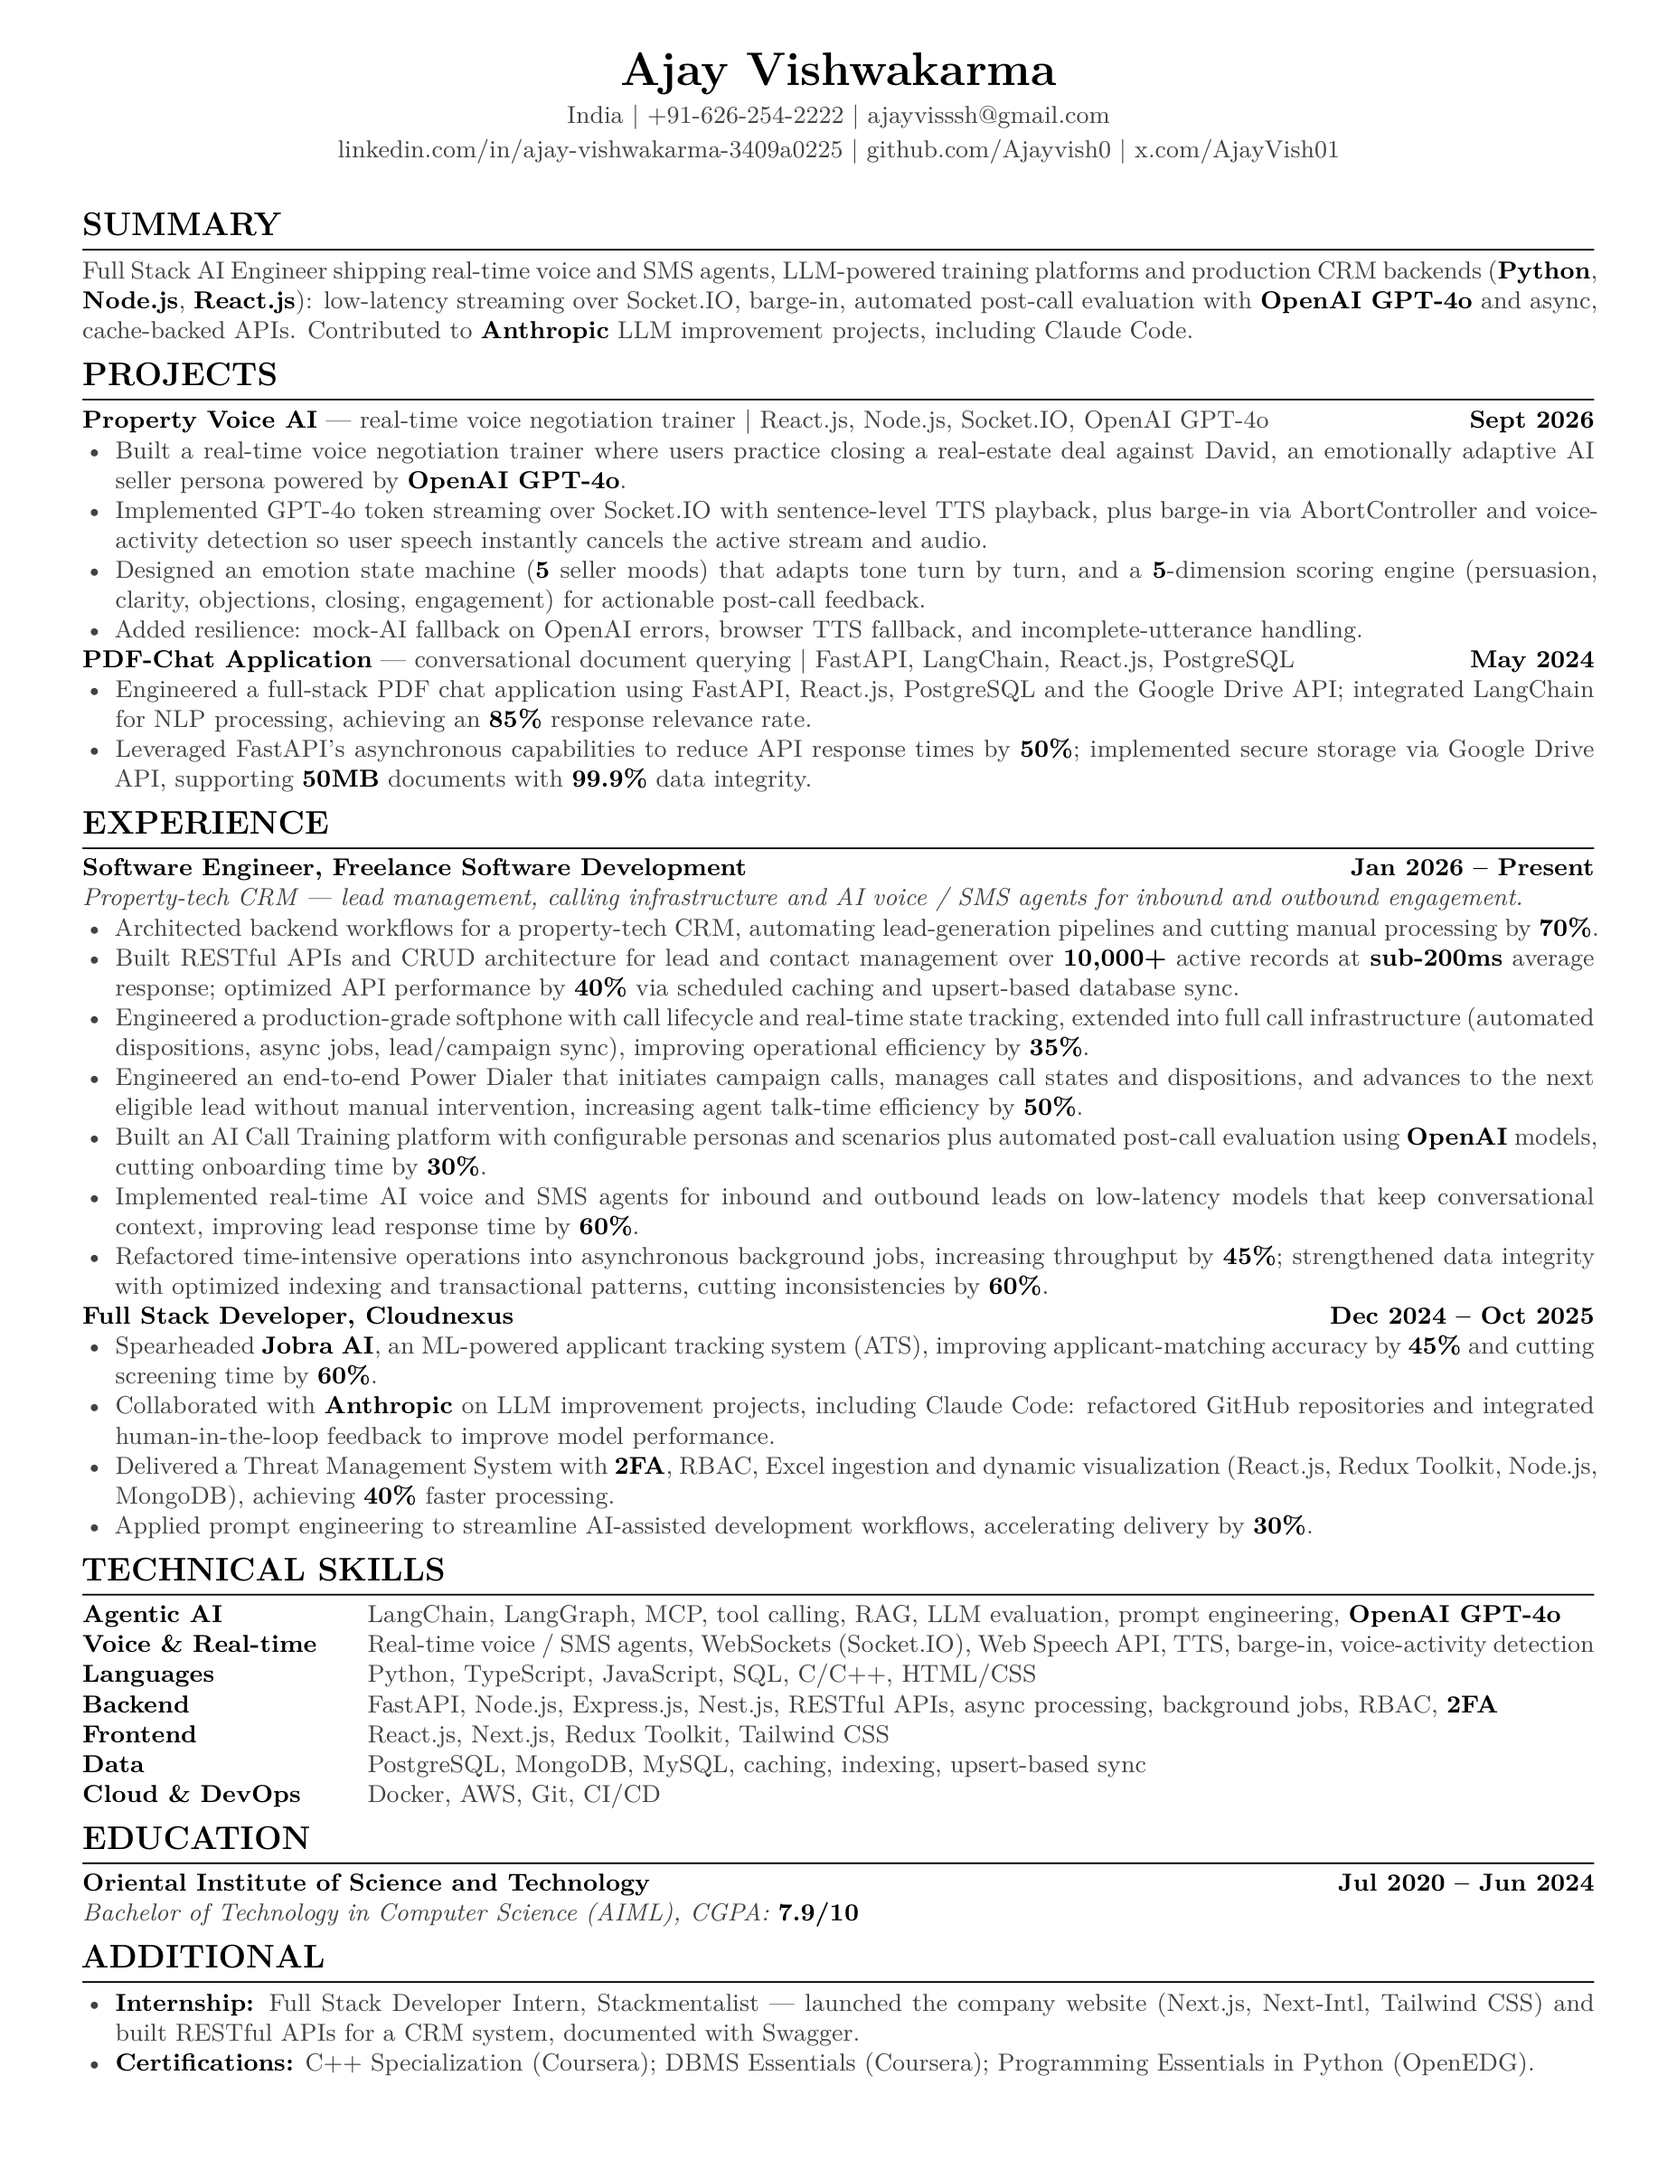
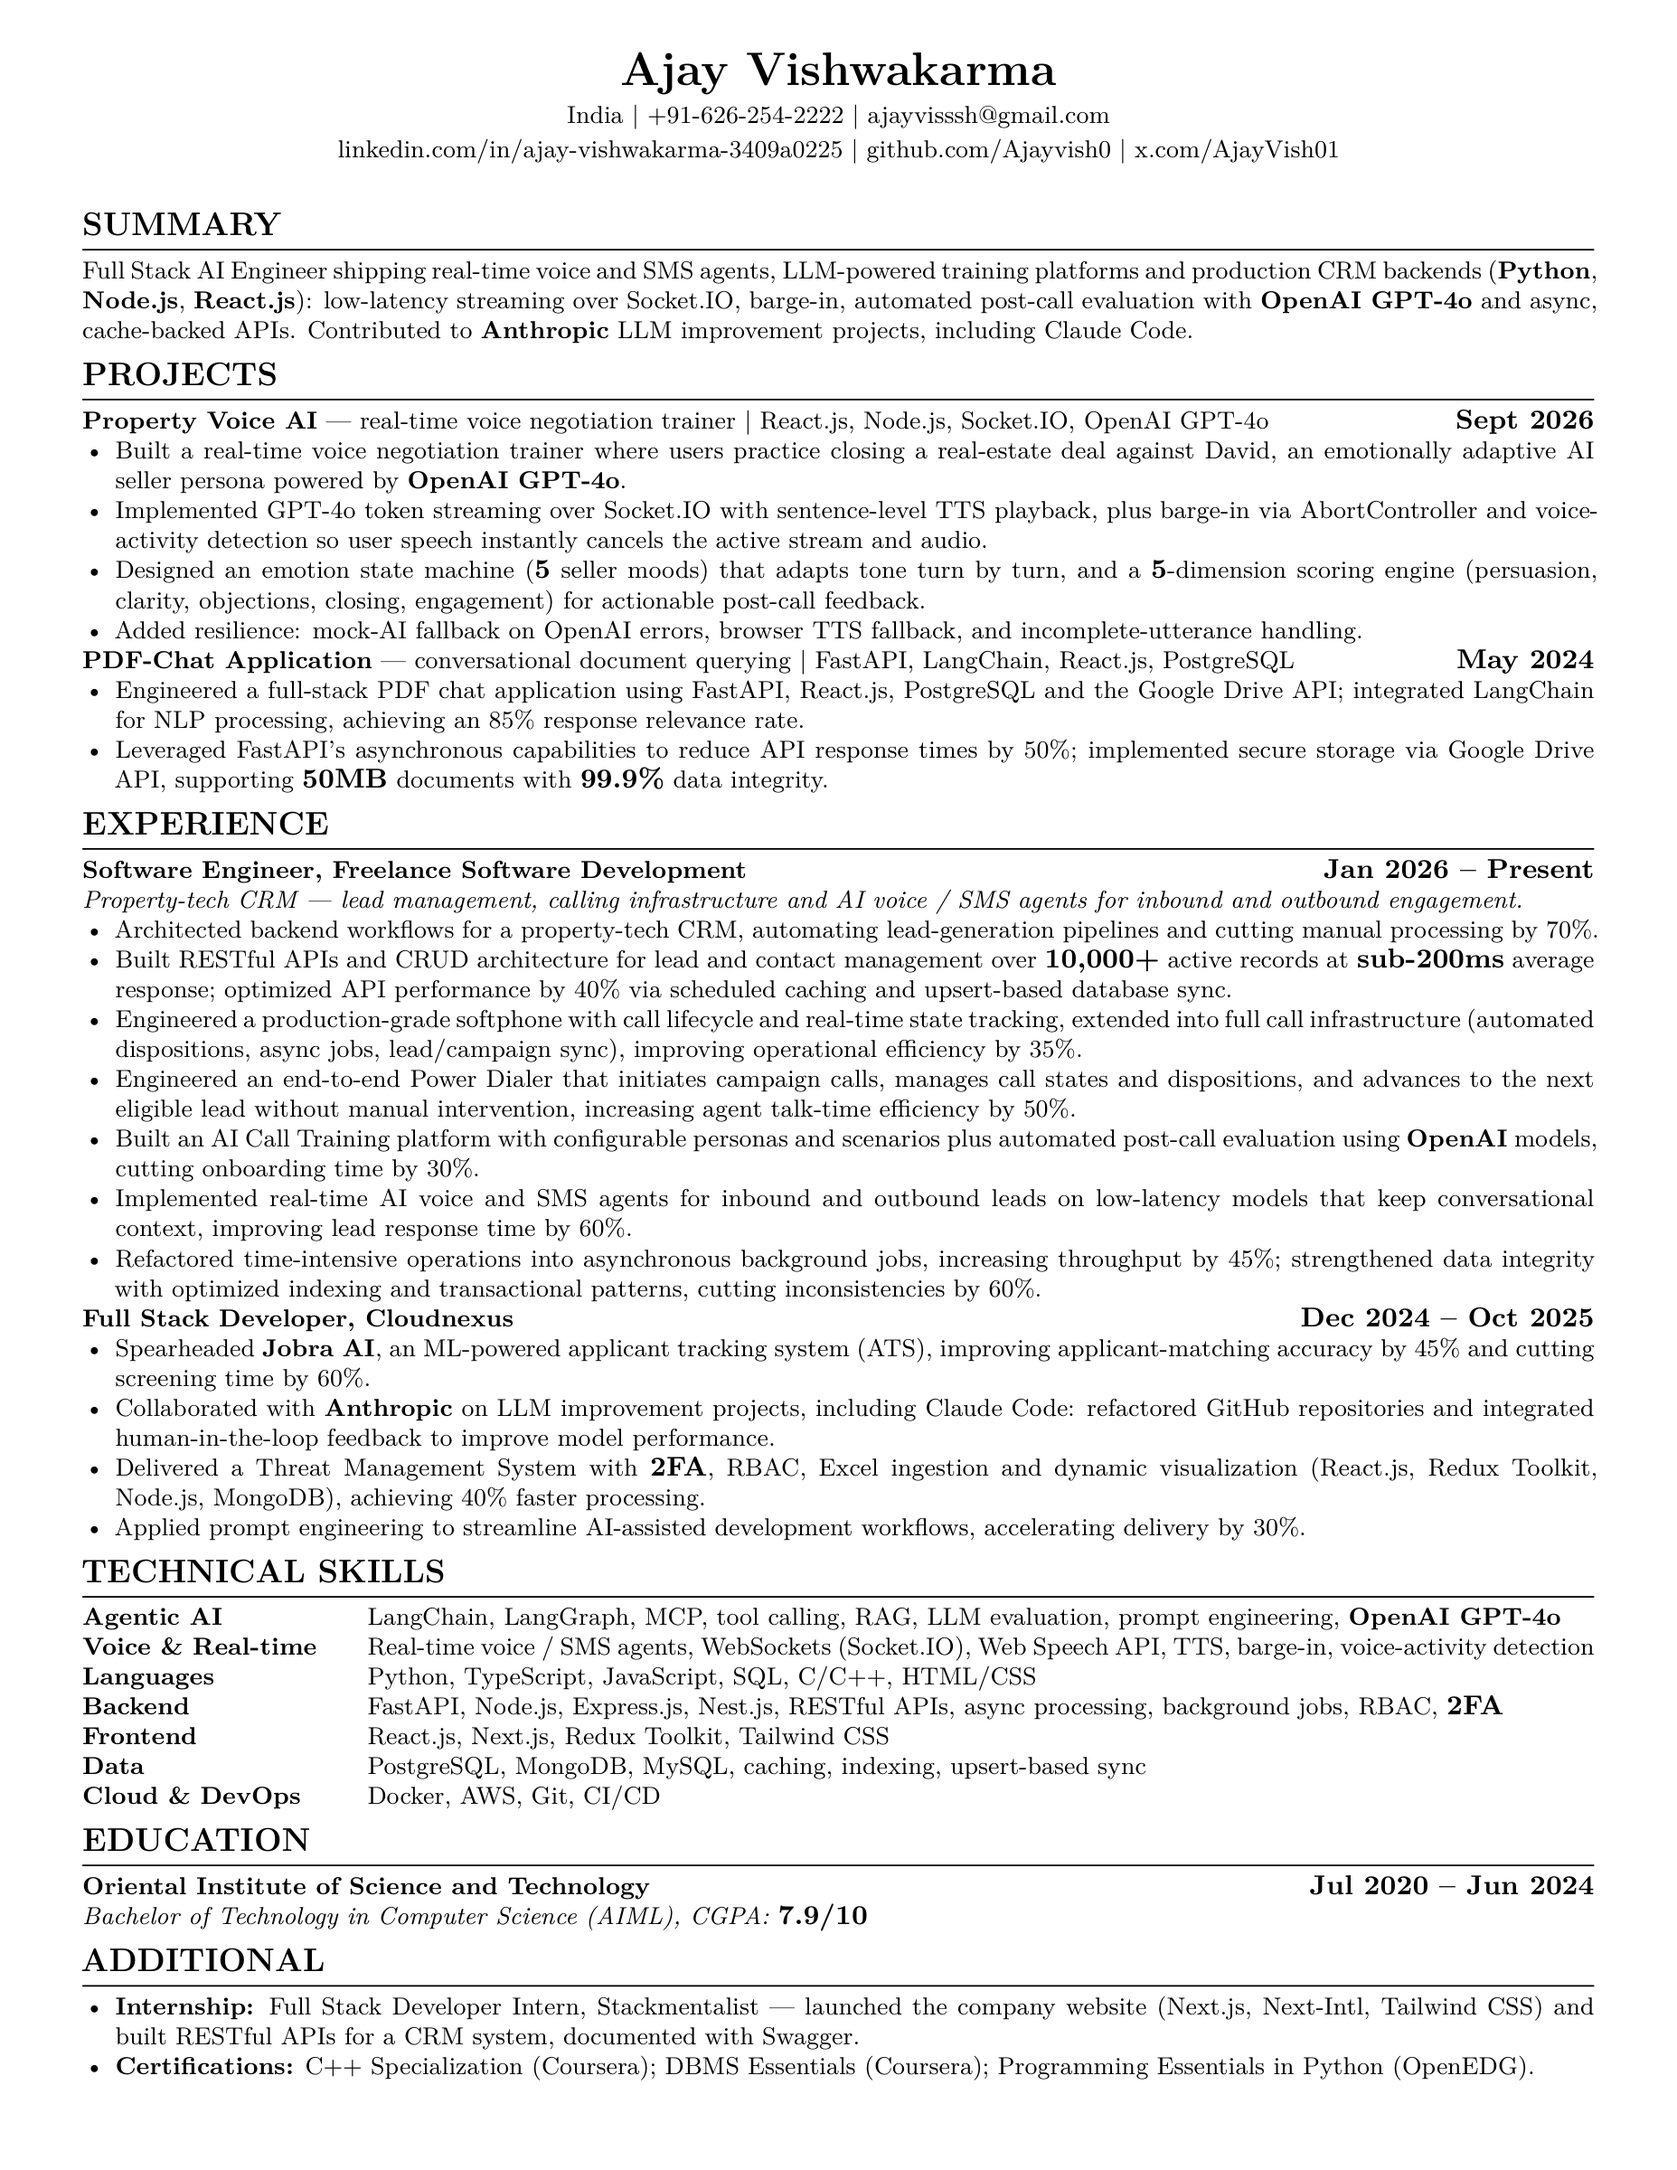
Update the resume preview image.
The resume PDF stays out of this commit.

diff --git a/src/app/(site)/resume/page.tsx b/src/app/(site)/resume/page.tsx
@@ -4,10 +4,10 @@ import { Download, ExternalLink } from "lucide-react";
 import { JsonLd } from "@/components/json-ld";
 import { absoluteUrl, personId } from "@/lib/site";
 
-// To update: replace public/resume/resume.pdf, then run `npm run resume:image`
-// to re-render the preview (public/resume/resume.png) from its first page.
+// To update: replace public/resume/Ajay_AiFullstack.pdf, then re-render
+// public/resume/preview.png from its first page.
 const RESUME_PDF = "/resume/Ajay_AiFullstack.pdf";
-const RESUME_PREVIEW = "/resume/Ajay_AiFullstack.png";
+const RESUME_PREVIEW = "/resume/preview.png";
 // Name the visitor's browser saves the file under.
 const DOWNLOAD_NAME = "Ajay-Vishwakarma-Resume.pdf";
 
